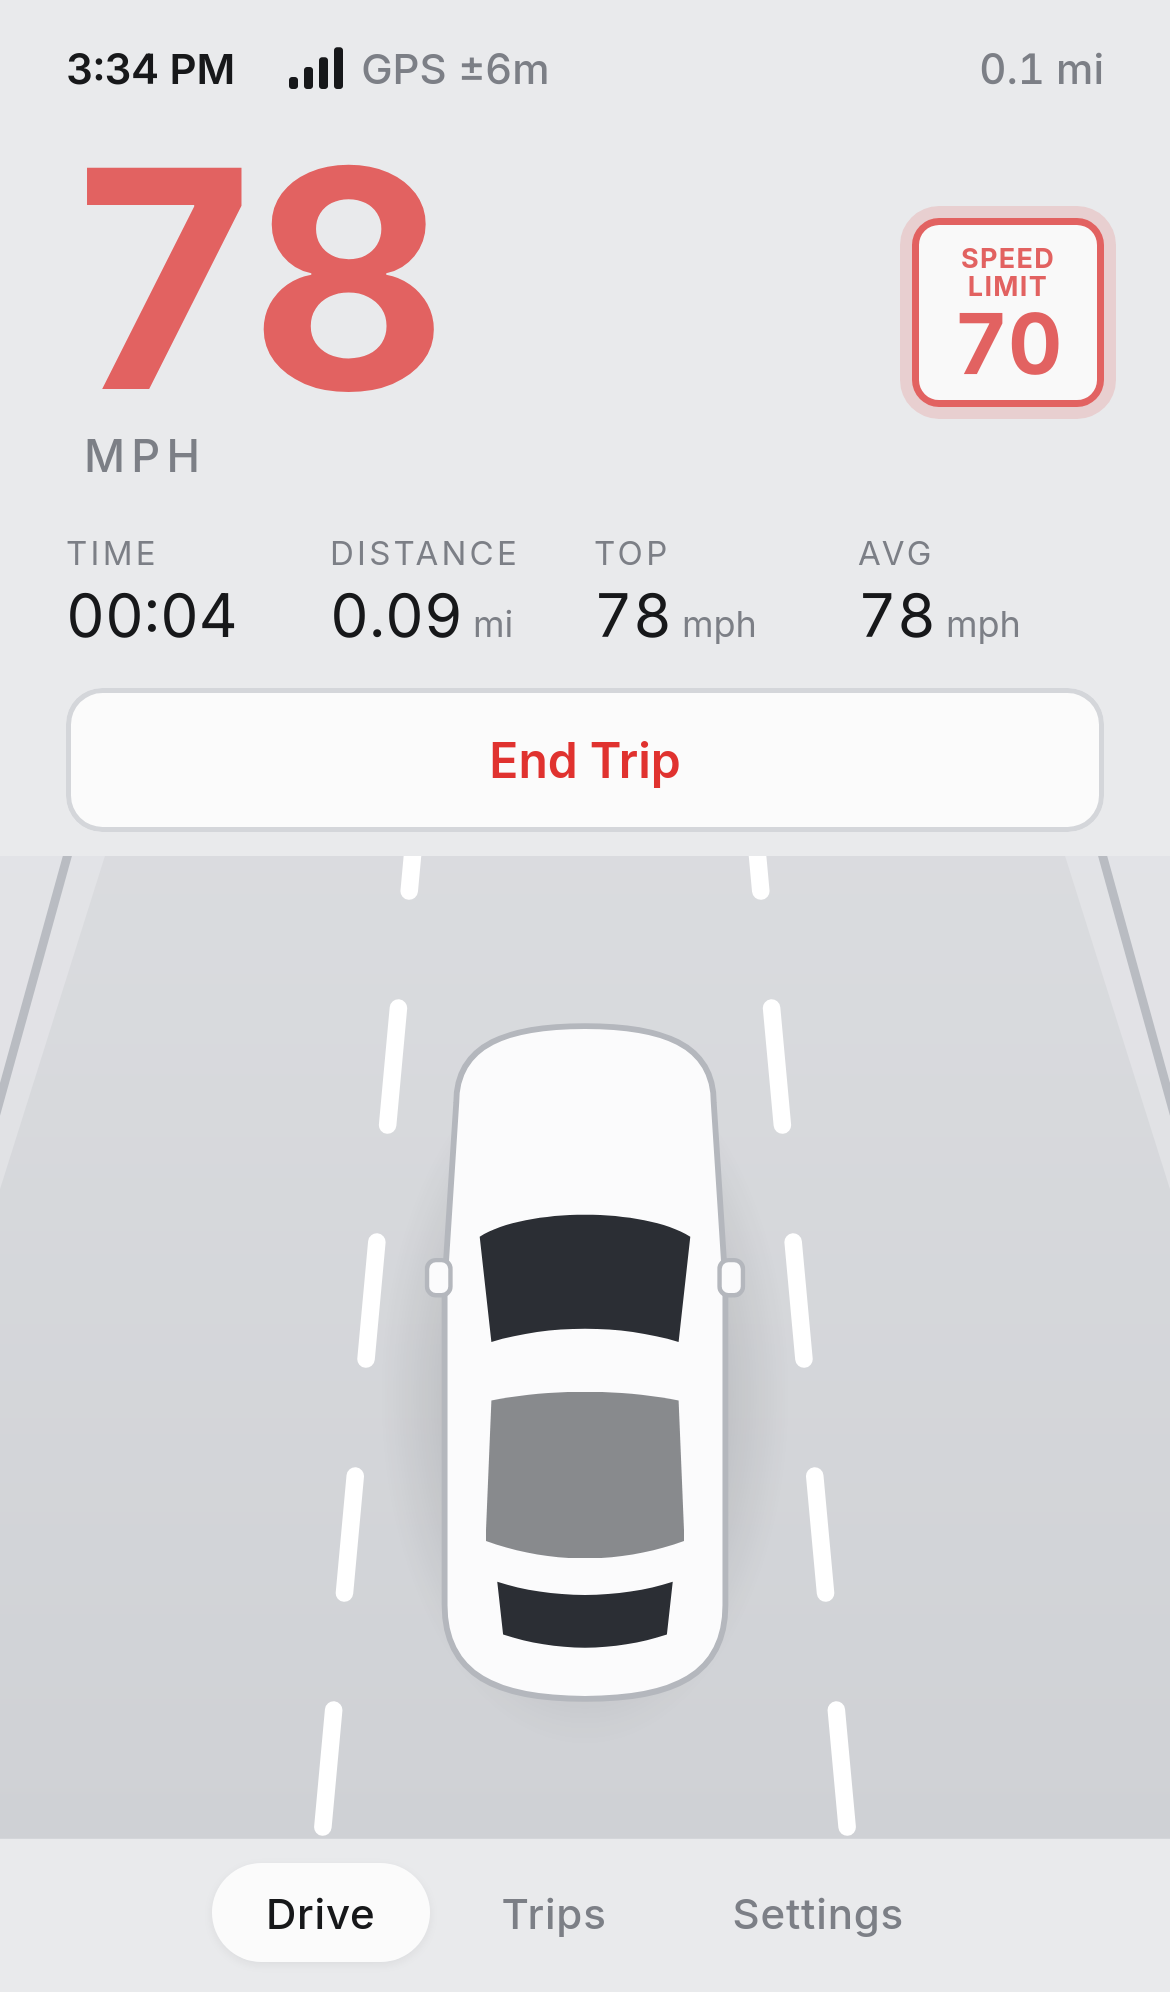
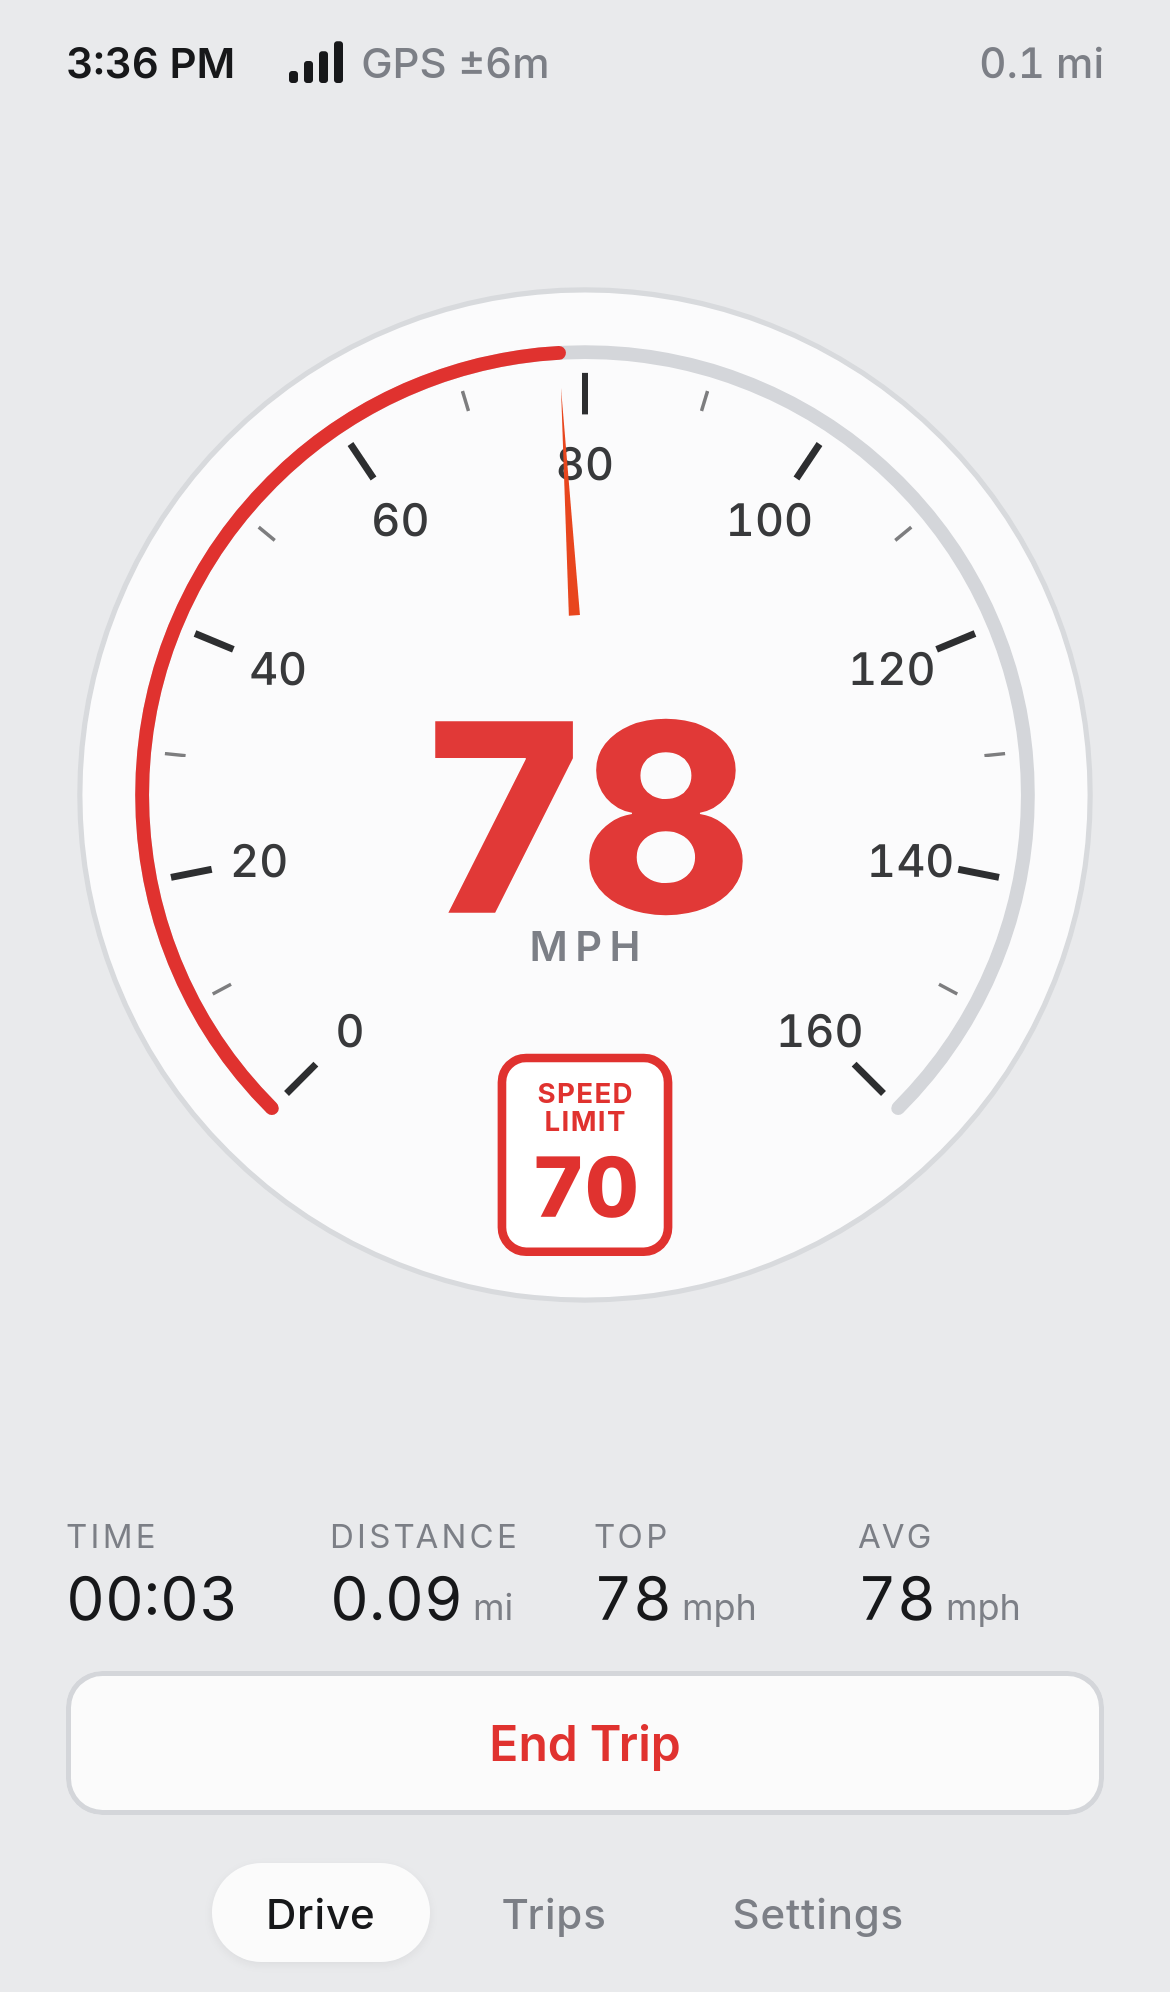
Circular 270° speedometer gauge as hero; remove road/car view; v3 SW cache

diff --git a/src/App.tsx b/src/App.tsx
@@ -1,5 +1,6 @@
 import { useEffect, useRef, useState, useSyncExternalStore } from 'react'
 import { smooth, speedFrom, toUnit, fromUnit, distUnit, type Fix } from './lib/speed'
+import { angle, frac, gaugeMax, polar, ticks } from './lib/gauge'
 import { startGps, type GpsStatus } from './lib/gps'
 import { addFix, avgMoving, finish, fmtDuration, newTrip, type Trip, type TripState } from './lib/trip'
 import { loadSettings, saveSettings, loadTrips, saveTrips, type Settings } from './lib/store'
@@ -10,8 +11,6 @@ const subHash = (cb: () => void) => { addEventListener('hashchange', cb); return
 const darkMq = typeof matchMedia === 'function' ? matchMedia('(prefers-color-scheme: dark)') : null
 const subDark = (cb: () => void) => { darkMq?.addEventListener('change', cb); return () => darkMq?.removeEventListener('change', cb) }
 
-const landMq = typeof matchMedia === 'function' ? matchMedia('(orientation: landscape)') : null
-const subLand = (cb: () => void) => { landMq?.addEventListener('change', cb); return () => landMq?.removeEventListener('change', cb) }
 
 function useClock() { const [n, setN] = useState(Date.now()); useEffect(() => { const i = setInterval(() => setN(Date.now()), 1000); return () => clearInterval(i) }, []); return n }
 
@@ -113,23 +112,15 @@ function Drive(p: { settings: Settings; status: GpsStatus; errMsg?: string; spee
   const waiting = !p.hasFix && (p.status === 'waiting' || p.status === 'ok')
   return (
     <main className={`drive ${p.over ? 'over' : ''}`}>
-      <section className="panel">
+      <section className="hero">
         <div className="status">
           <span className="clock">{new Date(now).toLocaleTimeString([], { hour: 'numeric', minute: '2-digit' })}</span>
           <Signal status={p.status} accuracy={p.accuracy} />
           <span className="tripd">{t ? `${distUnit(t.distance, u).toFixed(1)} ${du}` : '—'}</span>
         </div>
-        <div className="speedrow">
-          <div className="speed" data-testid="speed">
-            <div className="num">{waiting ? '--' : Math.round(p.shown)}</div>
-            <div className="unit">{u === 'mph' ? 'MPH' : 'KM/H'}</div>
-          </div>
-          {p.settings.limitOn && (
-            <div className="limit" data-testid="limit" aria-label={`Alert at ${p.settings.limit}`}>
-              <small>SPEED<br />LIMIT</small><b>{p.settings.limit}</b>
-            </div>
-          )}
-        </div>
+        <Gauge value={p.shown} unit={u} waiting={waiting} />
+      </section>
+      <section className="side">
         {waiting && <div className="note pulse">Waiting for GPS…</div>}
         {p.status === 'denied' && (
           <div className="note err" data-testid="denied">
@@ -148,55 +139,37 @@ function Drive(p: { settings: Settings; status: GpsStatus; errMsg?: string; spee
         </div>
         <button className={`btn trip ${t ? 'stop' : ''}`} onClick={p.toggleTrip} data-testid="trip-btn">{t ? 'End Trip' : 'Start Trip'}</button>
       </section>
-      <Road mps={p.speed} />
     </main>
   )
 }
 
 const Stat = ({ k, v, s }: { k: string; v: string; s?: string }) => <div className="stat"><span>{k}</span><b>{v}{s && <i> {s}</i>}</b></div>
 
-/** Perspective road with lane dashes that scroll proportionally to speed; top-down car silhouette. */
-function Road({ mps }: { mps: number }) {
-  const g = useRef<SVGGElement>(null), v = useRef(mps)
-  const land = useSyncExternalStore(subLand, () => !!landMq?.matches)
-  v.current = mps
-  useEffect(() => {
-    let off = 0, last = performance.now(), raf = 0
-    const tick = (n: number) => {
-      off = (off + v.current * 14 * ((n - last) / 1000)) % 120; last = n
-      g.current?.style.setProperty('--off', String(-off))
-      raf = requestAnimationFrame(tick)
-    }
-    raf = requestAnimationFrame(tick); return () => cancelAnimationFrame(raf)
-  }, [])
-  // lanes converge to vanishing point (200,0)
-  const lane = (xb: number) => `M${200 + (xb - 200) * 0.18},0 L${xb},800`
+/** Round 270° speedometer: ticks every 10, labels every 20, progress arc + needle, bold readout. */
+function Gauge({ value, unit, waiting }: { value: number; unit: Settings['unit']; waiting: boolean }) {
+  const max = gaugeMax(unit), C = 150, R = 128, f = waiting ? 0 : frac(value, max), deg = waiting ? -135 : angle(value, max)
+  const [sx, sy] = polar(C, C, R, -135), [ex, ey] = polar(C, C, R, 135)
+  const arc = `M${sx},${sy} A${R},${R} 0 1 1 ${ex},${ey}`
   return (
-    <section className="road" aria-hidden>
-      <svg viewBox="0 0 400 800" preserveAspectRatio={land ? "xMidYMax meet" : "xMidYMax slice"}>
-        <defs>
-          <linearGradient id="rg" x1="0" y1="0" x2="0" y2="1"><stop offset="0" className="rg0" /><stop offset="1" className="rg1" /></linearGradient>
-          <linearGradient id="fade" x1="0" y1="0" x2="0" y2="1"><stop offset="0" stopColor="#fff" stopOpacity="0" /><stop offset=".35" stopColor="#fff" stopOpacity="1" /></linearGradient>
-          <mask id="m" maskUnits="userSpaceOnUse" x="-1600" y="0" width="3600" height="800"><rect x="-1600" width="3600" height="800" fill="url(#fade)" /></mask>
-          <radialGradient id="shadow"><stop offset="0" stopColor="#000" stopOpacity=".28" /><stop offset="1" stopColor="#000" stopOpacity="0" /></radialGradient>
-        </defs>
-        <g mask="url(#m)">
-          <path d="M-1600,0 L2000,0 L2000,800 L-1600,800 Z" fill="url(#rg)" opacity=".45" /><path d="M182,0 L218,0 L470,800 L-70,800 Z" fill="url(#rg)" />
-          <path d={lane(-70)} className="edge" /><path d={lane(470)} className="edge" />
-          <g ref={g} className="dashes">
-            <path d={lane(110)} pathLength="1200" /><path d={lane(290)} pathLength="1200" />
+    <div className="gauge" data-testid="speed">
+      <svg viewBox="0 0 300 300" role="img" aria-label={`${waiting ? 'No GPS' : Math.round(value)} ${unit === 'mph' ? 'mph' : 'km/h'}`}>
+        <circle cx={C} cy={C} r={146} className="dial" />
+        <path d={arc} className="track" pathLength={100} />
+        <path d={arc} className="prog" pathLength={100} style={{ strokeDashoffset: 100 - f * 100 }} />
+        {ticks(max).map(({ v, major }) => {
+          const d = angle(v, max), [x1, y1] = polar(C, C, R - 6, d), [x2, y2] = polar(C, C, R - (major ? 18 : 12), d), [lx, ly] = polar(C, C, R - 32, d)
+          return <g key={v}>
+            <line x1={x1} y1={y1} x2={x2} y2={y2} className={major ? 'tick major' : 'tick'} />
+            {major && <text x={lx} y={ly} className="tlabel" textAnchor="middle" dominantBaseline="central">{v}</text>}
           </g>
+        })}
+        <g className="needle" style={{ transform: `rotate(${deg}deg)` }}>
+          <path d={`M${C - 1.6},${C - 52} L${C},${C - R + 10} L${C + 1.6},${C - 52} Z`} />
         </g>
-        <g transform="translate(200 640)">
-          <ellipse cx="0" cy="8" rx="70" ry="120" fill="url(#shadow)" />
-          <path className="car" d="M-44,-92 C-44,-112 -26,-118 0,-118 C26,-118 44,-112 44,-92 L48,-30 L48,80 C48,104 30,112 0,112 C-30,112 -48,104 -48,80 L-48,-30 Z" />
-          <path className="glass" d="M-36,-46 C-20,-56 20,-56 36,-46 L32,-10 C12,-16 -12,-16 -32,-10 Z" />
-          <path className="glass" d="M-32,10 C-12,6 12,6 32,10 L34,58 C12,66 -12,66 -34,58 Z" opacity=".55" />
-          <path className="glass" d="M-30,72 C-12,78 12,78 30,72 L28,90 C10,96 -10,96 -28,90 Z" />
-          <rect x="-54" y="-38" width="8" height="12" rx="3" className="mirror" /><rect x="46" y="-38" width="8" height="12" rx="3" className="mirror" />
-        </g>
+        <text x={C} y={C + 6} className="num" textAnchor="middle" dominantBaseline="central">{waiting ? '--' : Math.round(value)}</text>
+        <text x={C} y={C + 48} className="unit" textAnchor="middle">{unit === 'mph' ? 'MPH' : 'KM/H'}</text>
       </svg>
-    </section>
+    </div>
   )
 }
 

diff --git a/src/index.css b/src/index.css
@@ -1,13 +1,12 @@
 :root {
   --bg: #e9eaec; --bg2: #f4f5f6; --card: #ffffffcc; --fg: #17181a; --mut: #7c7f86; --line: #d4d6da;
-  --accent: #3e6ae1; --red: #e0322f; --road0: #e9eaec; --road1: #cfd1d5; --dash: #ffffff; --edge: #b9bcc2;
-  --car: #fbfbfc; --carline: #b4b7bd; --glass: #2b2e34;
+  --accent: #3e6ae1; --red: #e0322f; --dial: #fbfbfc; --dialrim: #d8dadd; --arc: #f26a1b; --needle: #e8461e;
   font-family: Inter, "SF Pro Display", -apple-system, system-ui, "Segoe UI", Roboto, sans-serif;
   color: var(--fg); background: var(--bg); -webkit-font-smoothing: antialiased; font-feature-settings: "tnum";
 }
 :root[data-theme=dark] {
   --bg: #0b0c0e; --bg2: #141518; --card: #1a1b1fcc; --fg: #f1f2f4; --mut: #8a8d94; --line: #2a2c31;
-  --road0: #0b0c0e; --road1: #23252a; --dash: #8d9097; --edge: #3a3d43; --car: #d9dbdf; --carline: #6b6e75; --glass: #111215;
+  --dial: #050506; --dialrim: #26282d; --line: #2a2c31;
 }
 * { box-sizing: border-box; }
 html, body, #root { margin: 0; height: 100%; }
@@ -21,22 +20,31 @@ button { font: inherit; color: inherit; cursor: pointer; -webkit-tap-highlight-c
 .nav a.on { color: var(--fg); background: var(--card); box-shadow: 0 1px 3px #0000000f; }
 
 /* drive */
-.drive { flex: 1; min-height: 0; display: grid; grid-template-rows: auto 1fr; position: relative; }
-.panel { padding: 14px 22px 8px; display: flex; flex-direction: column; gap: 12px; z-index: 1; }
+.drive { flex: 1; min-height: 0; display: flex; flex-direction: column; gap: 10px; padding: 12px 22px 8px; width: 100%; max-width: 560px; margin: 0 auto; }
+.hero { flex: 1; min-height: 0; display: flex; flex-direction: column; gap: 6px; }
+.side { display: flex; flex-direction: column; gap: 12px; }
 .status { display: flex; gap: 18px; align-items: center; font-size: 14px; color: var(--mut); font-weight: 500; }
 .status .clock { color: var(--fg); font-weight: 600; }
 .status .tripd { margin-left: auto; }
 .signal { display: inline-flex; gap: 6px; align-items: center; }
 .signal .b { fill: var(--line); } .signal .b.on { fill: var(--fg); }
-.speedrow { display: flex; align-items: center; justify-content: space-between; gap: 20px; padding: 4px 0; }
-.speed { min-width: 0; }
-.speed .num { font-size: clamp(88px, 26vw, 150px); font-weight: 700; line-height: .9; letter-spacing: -.04em; transition: color .25s; }
-.speed .unit { font-size: 15px; font-weight: 500; letter-spacing: .14em; color: var(--mut); margin-top: 4px; padding-left: 6px; }
-.limit { width: 64px; padding: 6px 4px 4px; border-radius: 9px; background: #fff; color: #111; border: 2.5px solid #111; text-align: center; box-shadow: 0 2px 8px #00000018; transition: all .25s; }
-.limit small { display: block; font-size: 9px; font-weight: 700; letter-spacing: .05em; line-height: 1.05; }
-.limit b { display: block; font-size: 28px; line-height: 1.05; font-weight: 700; }
-.over .speed .num { color: var(--red); animation: pulse 1s ease-in-out infinite; }
-.over .limit { border-color: var(--red); color: var(--red); box-shadow: 0 0 0 4px #e0322f33; animation: pulse 1s ease-in-out infinite; }
+.gauge { flex: 1; min-height: 0; display: flex; justify-content: center; align-items: center; }
+.gauge svg { width: 100%; height: 100%; max-height: 100%; overflow: visible; }
+.dial { fill: var(--dial); stroke: var(--dialrim); stroke-width: 1.5; filter: drop-shadow(0 6px 18px #0000001a); }
+.track { fill: none; stroke: var(--line); stroke-width: 4; stroke-linecap: round; }
+.prog { fill: none; stroke: var(--arc); stroke-width: 4; stroke-linecap: round; stroke-dasharray: 100 100; transition: stroke-dashoffset .6s cubic-bezier(.25,.8,.3,1), stroke .25s; }
+.tick { stroke: var(--fg); stroke-width: 1; opacity: .55; } .tick.major { stroke-width: 2; opacity: .9; }
+.tlabel { fill: var(--fg); font-size: 13px; font-weight: 500; opacity: .85; }
+.needle { transform-origin: 150px 150px; transition: transform .6s cubic-bezier(.25,.8,.3,1); }
+.needle path { fill: var(--needle); }
+.gauge .num { fill: var(--fg); font-size: 76px; font-weight: 800; letter-spacing: -.03em; transition: fill .25s; }
+.gauge .unit { fill: var(--mut); font-size: 12px; font-weight: 600; letter-spacing: .18em; }
+.limit rect { fill: #fff; stroke: #111; stroke-width: 2.5; transition: stroke .25s; }
+.limit .lsm { fill: #111; font-size: 8px; font-weight: 700; letter-spacing: .05em; }
+.limit .lnum { fill: #111; font-size: 24px; font-weight: 800; }
+.over .gauge .num, .over .limit .lnum, .over .limit .lsm { fill: var(--red); }
+.over .prog { stroke: var(--red); } .over .limit rect { stroke: var(--red); }
+.over .gauge .num { animation: pulse 1s ease-in-out infinite; }
 @keyframes pulse { 50% { opacity: .55; } }
 .pulse { animation: pulse 1.4s ease-in-out infinite; }
 .note { font-size: 14px; color: var(--mut); }
@@ -52,37 +60,26 @@ button { font: inherit; color: inherit; cursor: pointer; -webkit-tap-highlight-c
 .btn.trip.stop { background: var(--card); color: var(--red); box-shadow: inset 0 0 0 1.5px var(--line); }
 .btn.ghost { background: transparent; box-shadow: inset 0 0 0 1.5px var(--line); padding: 8px 14px; font-size: 14px; }
 
-.road { min-height: 0; position: relative; overflow: hidden; }
-.road svg { overflow: visible; position: absolute; inset: 0; width: 100%; height: 100%; }
-.rg0 { stop-color: var(--road0); } .rg1 { stop-color: var(--road1); }
-.edge { stroke: var(--edge); stroke-width: 3; fill: none; }
-.dashes path { stroke: var(--dash); stroke-width: 6; fill: none; stroke-dasharray: 60 60; stroke-dashoffset: var(--off, 0); stroke-linecap: round; }
-.car { fill: var(--car); stroke: var(--carline); stroke-width: 2; filter: drop-shadow(0 6px 10px #0002); }
-.glass { fill: var(--glass); }
-.mirror { fill: var(--car); stroke: var(--carline); stroke-width: 1.5; }
-
 /* landscape / wide (incl. car touchscreen browser) */
 @media (orientation: landscape) and (min-width: 600px) {
   .app { flex-direction: row-reverse; }
   .nav { flex-direction: column; justify-content: flex-end; padding: 12px 8px; }
-  .drive { grid-template-rows: 1fr; grid-template-columns: minmax(330px, 40%) 1fr; }
-  .panel { justify-content: center; padding: 16px 28px; }
-  .speed .num { font-size: clamp(90px, 13vw, 220px); }
-  .speedrow { gap: 28px; }
+  .drive { flex-direction: row; align-items: stretch; max-width: 1500px; gap: 4vw; padding: 12px 28px; }
+  .hero { flex: 1.4; }
+  .side { flex: 1; max-width: 420px; justify-content: center; }
+  .stats { grid-template-columns: repeat(2, 1fr); gap: 16px 12px; }
 }
 @media (orientation: landscape) and (max-height: 500px) {
-  .panel { gap: 8px; padding: 8px 20px; }
-  .speed .num { font-size: 104px; }
+  .drive { padding: 8px 20px; } .side { gap: 8px; } .stats { gap: 8px 12px; }
   .btn { padding: 10px; }
   .nav a { padding: 6px 12px; font-size: 13px; }
 }
 @media (min-width: 1200px) {
   .status { font-size: 18px; }
-    .speed .unit { font-size: 20px; }
-  .limit { width: 86px; } .limit small { font-size: 12px; } .limit b { font-size: 38px; }
-  .stat b { font-size: 28px; } .stat span { font-size: 13px; }
+  .stat b { font-size: 34px; } .stat span { font-size: 13px; }
   .btn { font-size: 19px; padding: 18px; }
   .nav a { font-size: 17px; padding: 12px 22px; }
+  .drive { padding: 32px 48px; }
 }
 
 /* pages */

diff --git a/src/lib/gauge.ts b/src/lib/gauge.ts
@@ -1,0 +1,15 @@
+export const SWEEP = 270
+export const gaugeMax = (unit: 'mph' | 'kmh' | string) => (unit === 'mph' ? 160 : 260)
+/** Fraction 0..1 of the dial for a speed (clamped). */
+export const frac = (v: number, max: number) => Math.min(1, Math.max(0, (Number.isFinite(v) ? v : 0) / max))
+/** Angle in degrees clockwise from 12 o'clock; -135 at 0, +135 at max. */
+export const angle = (v: number, max: number) => -SWEEP / 2 + frac(v, max) * SWEEP
+export function ticks(max: number) {
+  const out: { v: number; major: boolean }[] = []
+  for (let v = 0; v <= max; v += 10) out.push({ v, major: v % 20 === 0 })
+  return out
+}
+export const polar = (cx: number, cy: number, r: number, deg: number) => {
+  const a = (deg * Math.PI) / 180
+  return [cx + r * Math.sin(a), cy - r * Math.cos(a)] as const
+}

diff --git a/src/lib/gauge.test.ts b/src/lib/gauge.test.ts
@@ -1,0 +1,11 @@
+import { describe, expect, it } from 'vitest'
+import { angle, frac, gaugeMax, ticks } from './gauge'
+describe('gauge', () => {
+  it('max per unit', () => { expect(gaugeMax('mph')).toBe(160); expect(gaugeMax('kmh')).toBe(260) })
+  it('angles span 270°', () => { expect(angle(0, 160)).toBe(-135); expect(angle(160, 160)).toBe(135); expect(angle(80, 160)).toBe(0) })
+  it('clamps', () => { expect(frac(-5, 160)).toBe(0); expect(frac(999, 160)).toBe(1); expect(frac(NaN, 160)).toBe(0) })
+  it('ticks: minor every 10, labels every 20', () => {
+    const t = ticks(160); expect(t).toHaveLength(17); expect(t.filter((x) => x.major).map((x) => x.v)).toEqual([0, 20, 40, 60, 80, 100, 120, 140, 160])
+    expect(ticks(260).filter((x) => x.major)).toHaveLength(14)
+  })
+})

diff --git a/src/sw-template.js b/src/sw-template.js
@@ -1,6 +1,6 @@
 /* Lanecast service worker — generated at build time (see vite.config.ts). */
 const VERSION = '__VERSION__'
-const CACHE = `lanecast-v2-${VERSION}`
+const CACHE = `lanecast-v3-${VERSION}`
 const PRECACHE = __PRECACHE__
 
 self.addEventListener('install', (event) => {
